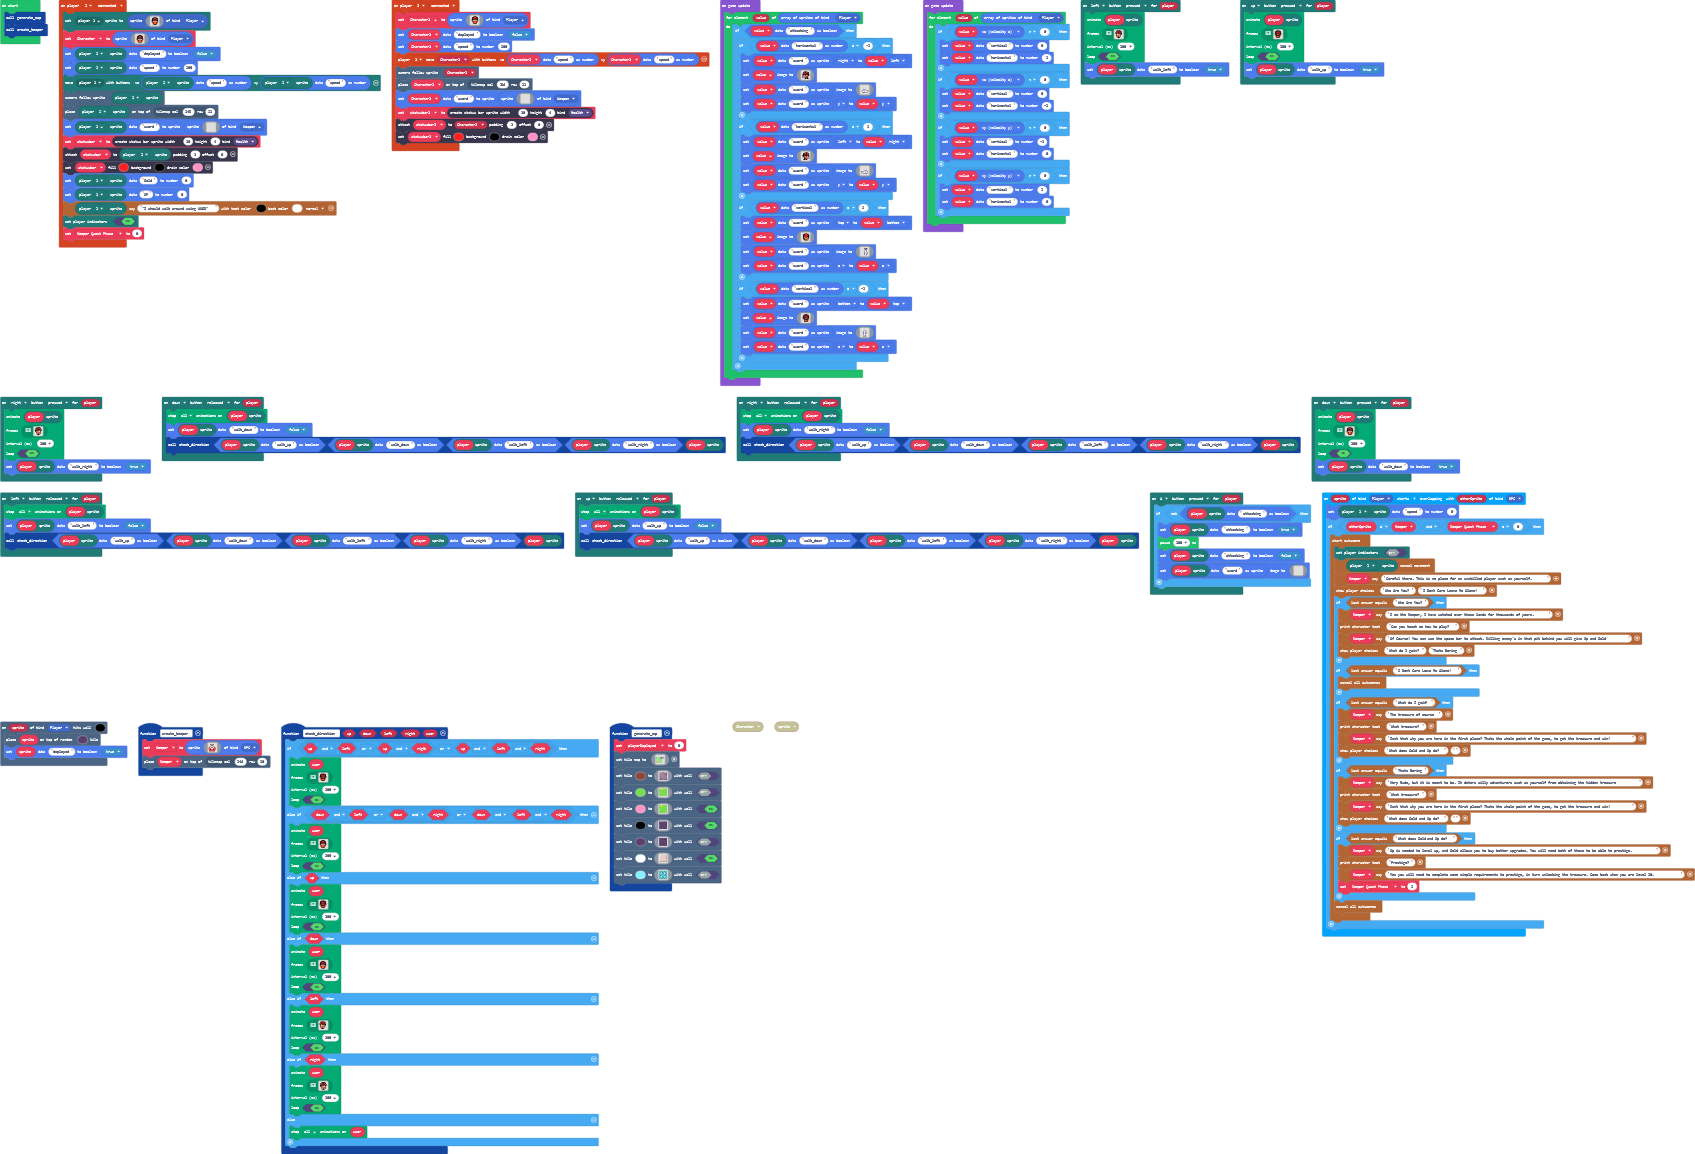
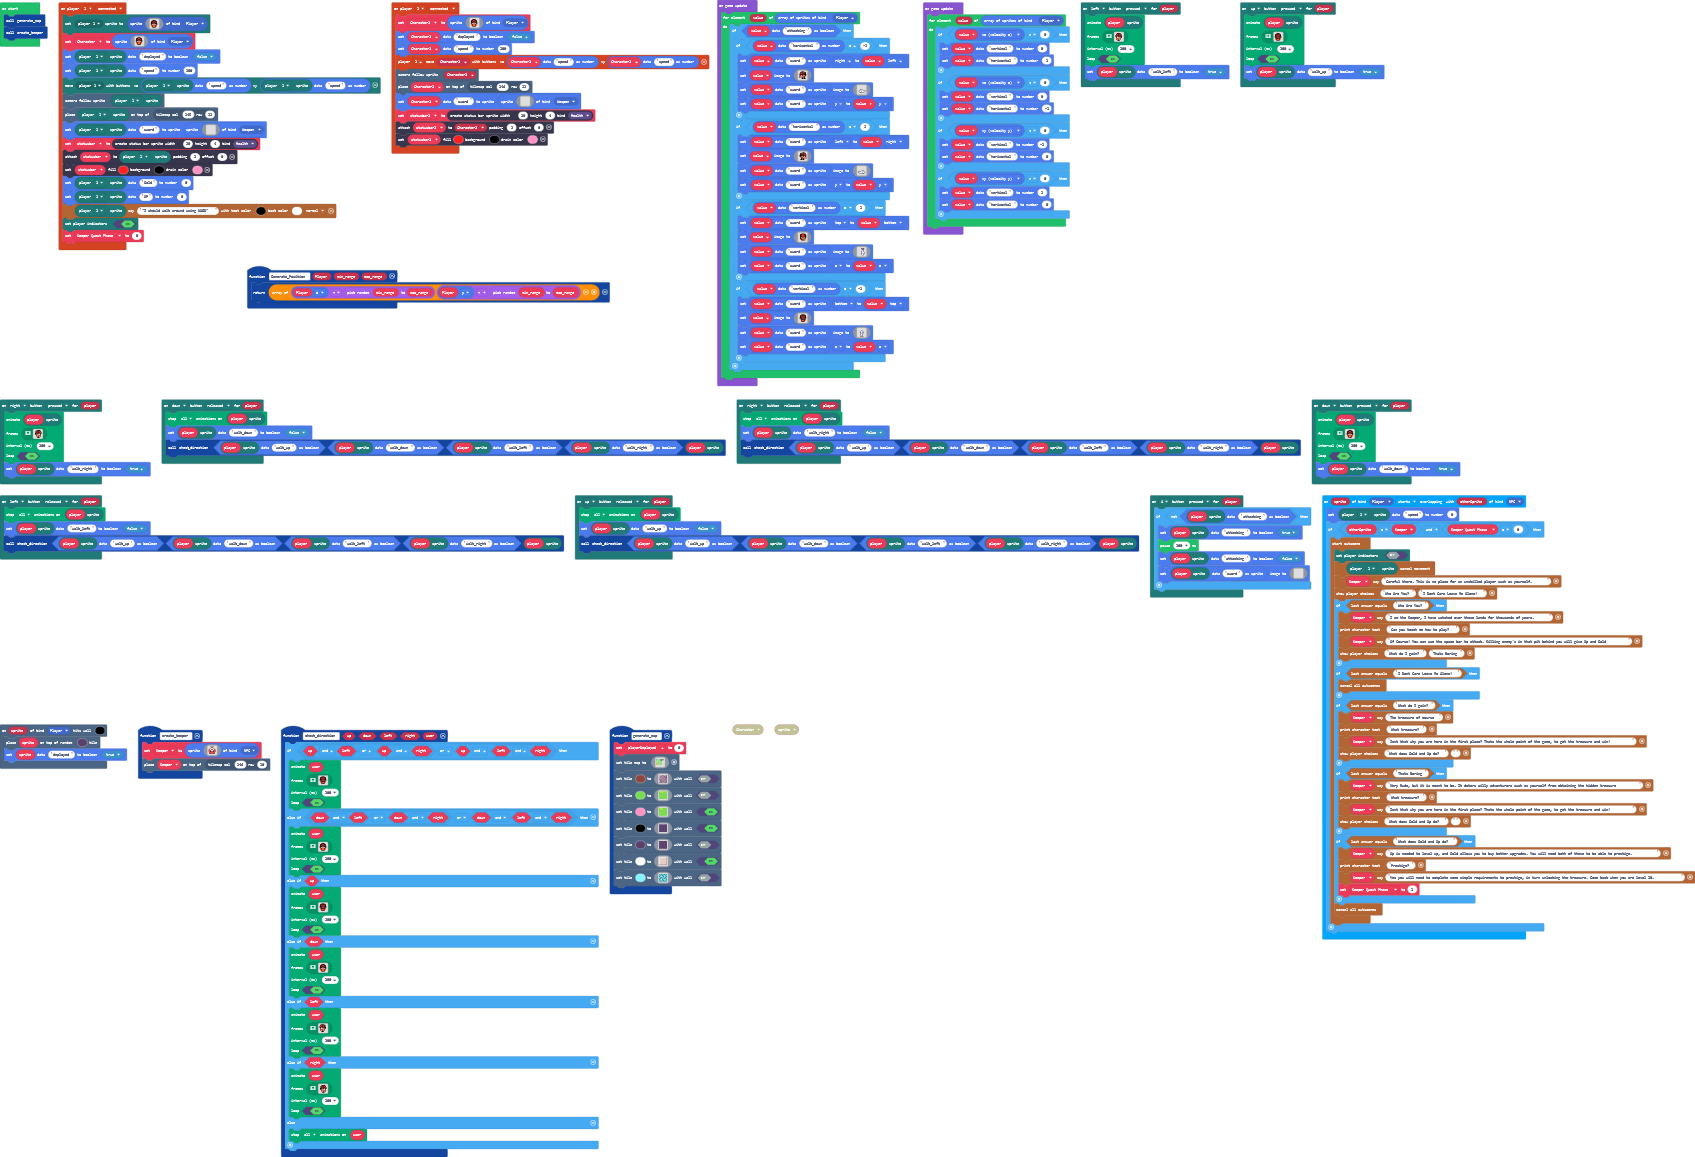
Update main.blocks, main.ts

Changed region(s): [[0.0, 0.0, 1.0, 0.8111], [0.0, 0.6239, 0.4295, 0.9047], [0.1227, 0.2184, 0.3681, 0.2808]]

diff --git a/main.ts b/main.ts
@@ -624,6 +624,9 @@ function check_direction (up: boolean, down: boolean, left: boolean, right: bool
         animation.stopAnimation(animation.AnimationTypes.All, user)
     }
 }
+function Generate_Position (Player: Sprite, min_range: number, max_range: number) {
+    return [Player.x + randint(min_range, max_range), Player.y + randint(min_range, max_range)]
+}
 mp.onButtonEvent(mp.MultiplayerButton.Down, ControllerButtonEvent.Pressed, function (player2) {
     animation.runImageAnimation(
     mp.getPlayerSprite(player2),
